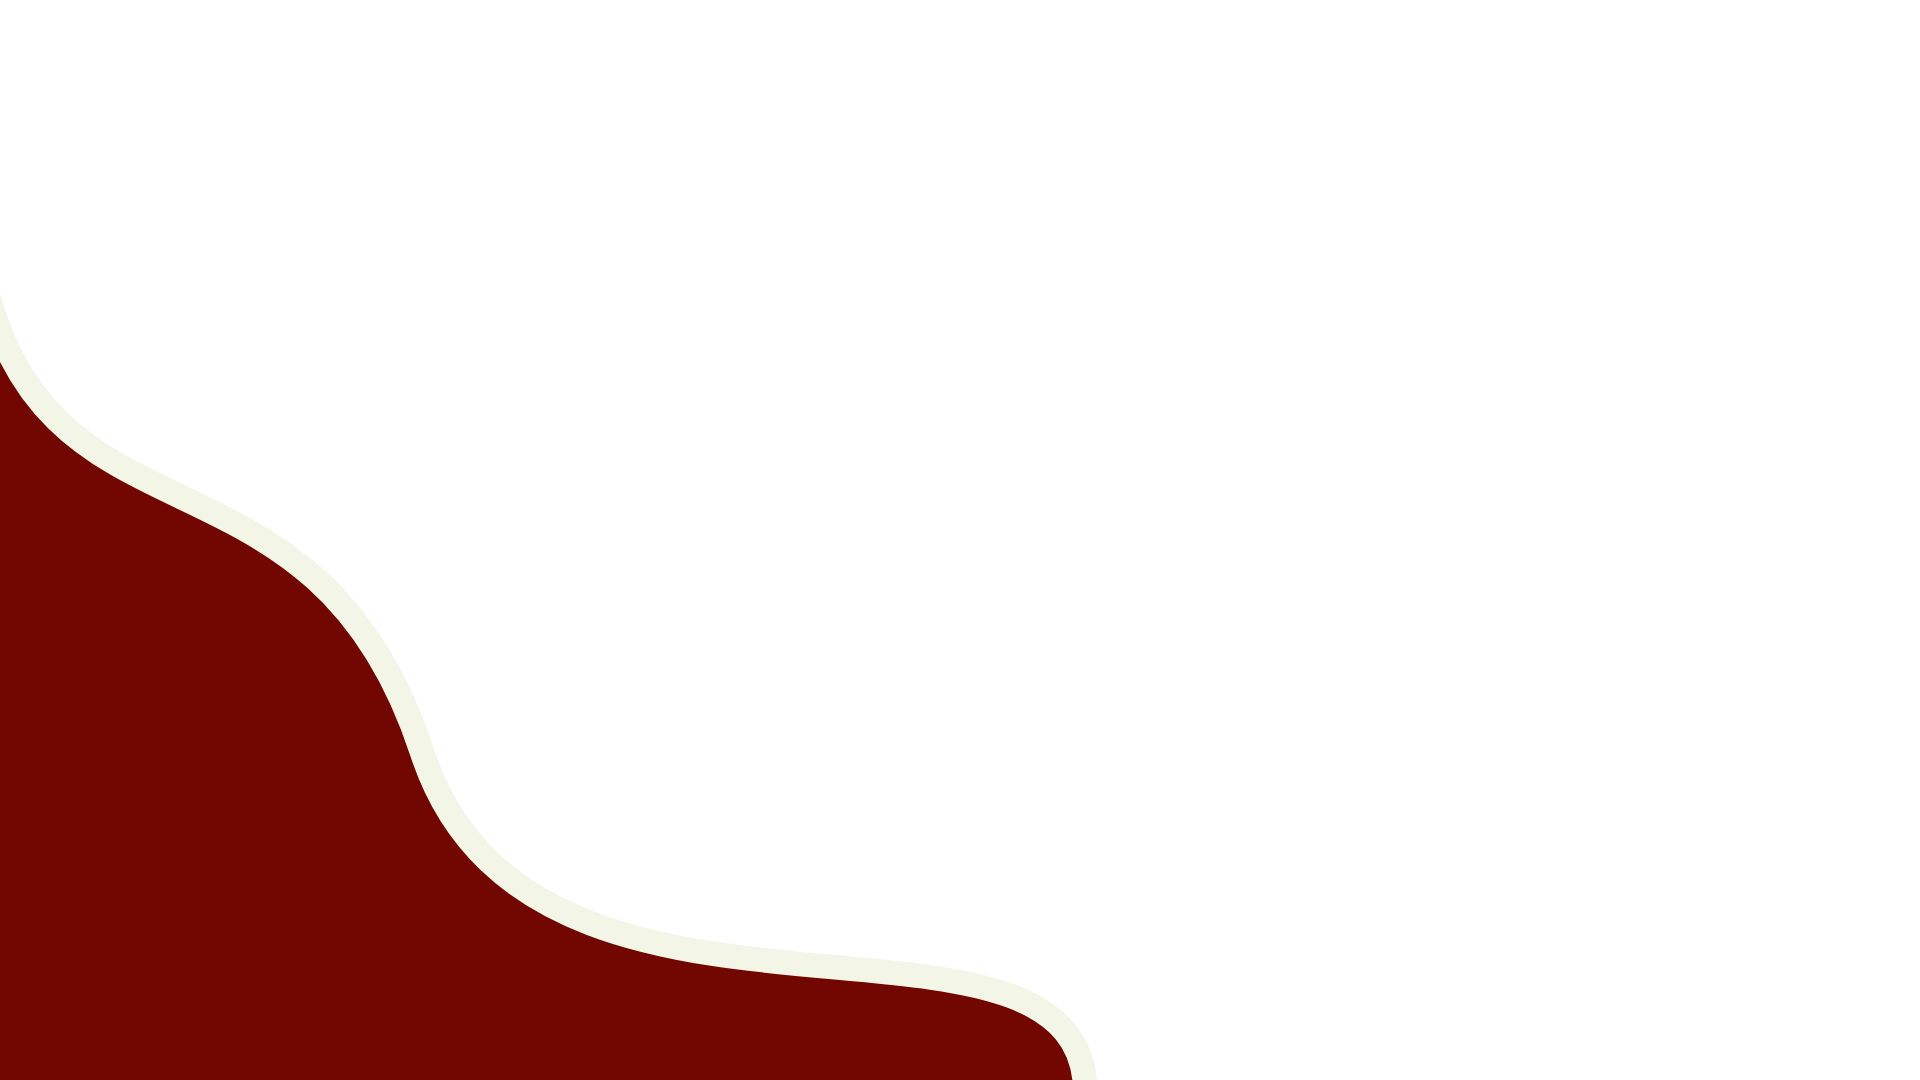
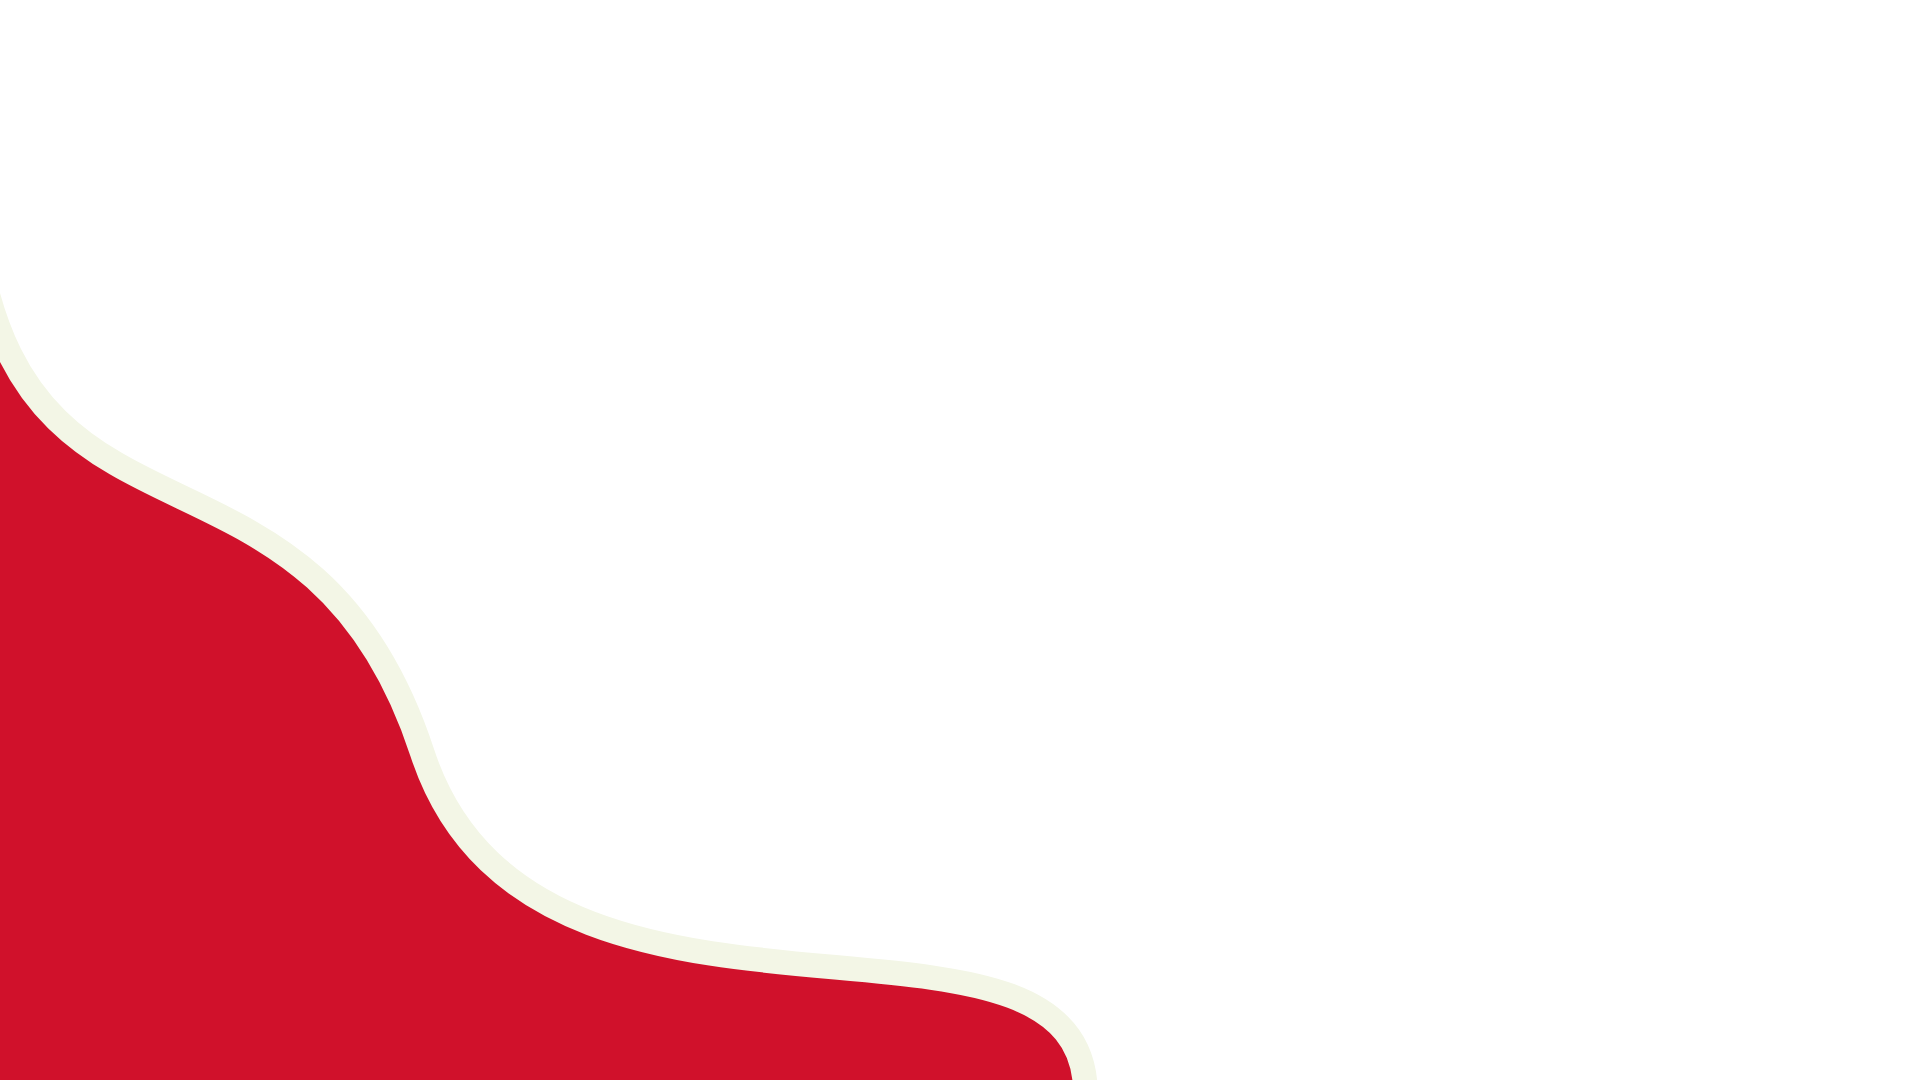
Corrigiendo color de login y home

Changed region(s): [[0.0, 0.3361, 0.5625, 1.0]]

diff --git a/resources/css/login.css b/resources/css/login.css
@@ -73,7 +73,7 @@ form h2 {
     bottom: -2px;
     width: 0;
     height: 2px;
-    background-color: #720600;
+    background-color: #D0112B;
     transition: .3s;
 }
 
@@ -140,7 +140,7 @@ form h2 {
     font-size: 1.2rem;
     outline: none;
     border: none;
-    background-image: linear-gradient(to right, #720600, #7a0600, #802924);
+    background-image: linear-gradient(to right, #D0112B, #a50800, #9b3631);
     cursor: pointer;
     color: #fff;
     text-transform: uppercase;

diff --git a/resources/css/public.css b/resources/css/public.css
@@ -97,7 +97,7 @@ main {
 
 /***********TITLE SECTION**********************************************************/
 .section--title__container {
-    background: #720600;
+    background: #D0112B;
     display: flex;
     justify-content: flex-start;
     align-items: center;

diff --git a/views/public/profile.php b/views/public/profile.php
@@ -68,21 +68,21 @@ Public_Page::headerTemplate('SigmaQ - Configuración personal');
                 <h3 class="centrar">Cambiar contraseña</h3> 
                 <form method="post" id="password-form" enctype="multipart/form-data">   
                     <div class="row espacex2">
-                        <div class="d-grid gap-2 col-4 mx-auto">
+                        <div class="d-grid gap-2 col-md-4 col-sm-12 mx-auto">
                             <label for="txtClaveActual" class="form-label">Clave actual</label>
                             <input type="password" id="txtClaveActual" name="txtClaveActual" class="form-control" aria-describedby="claveActual">
                             <div id="claveActual" class="form-text">
                             Tu contraseña debe tener una longitud mínima de 6 caracteres y un máximo de 30, puede contener letras numeros y espacios
                             </div>
                         </div>
-                        <div class="d-grid gap-2 col-4 mx-auto">
+                        <div class="d-grid gap-2 col-md-4 col-sm-12 mx-auto">
                             <label for="txtClaveNueva" class="form-label">Nueva clave</label>
                             <input type="password" id="txtClaveNueva" name="txtClaveNueva" class="form-control" aria-describedby="claveNueva">
                             <div id="claveNueva" class="form-text">
                             Tu contraseña debe tener una longitud mínima de 6 caracteres y un máximo de 30, puede contener letras numeros y espacios
                             </div>
                         </div>
-                        <div class="d-grid gap-2 col-4 mx-auto">
+                        <div class="d-grid gap-2 col-md-4 col-sm-12 mx-auto">
                             <label for="txtClaveConfirmar" class="form-label">Confirmar clave</label>
                             <input type="password" id="txtClaveConfirmar" name="txtClaveConfirmar" class="form-control" aria-describedby="claveConfirmar">
                             <div id="claveConfirmar" class="form-text">

diff --git a/views/public/indiceEntrega.php b/views/public/indiceEntrega.php
@@ -16,7 +16,7 @@ Public_Page::headerTemplate('SigmaQ - Índice de entrega');
 </div>
 
 <!-- Seccion de tabla de registros -->
-<div class="container-fluid espacioSuperior"> 
+<div class="container-fluid table-responsive espacioSuperior"> 
 	<table class="table borde">
 		<h4 id="warning-message" style="text-align:center"></h4>
 		<!-- Contenido de la tabla -->

diff --git a/views/public/statusPedidos.php b/views/public/statusPedidos.php
@@ -17,7 +17,7 @@ Public_Page::headerTemplate('SigmaQ - Status de pedidos');
 
 
 <!-- Seccion de tabla de registros -->
-<div class="container-fluid espacioSuperior"> 
+<div class="container-fluid table-responsive espacioSuperior"> 
 	<table class="table borde">
 		<h4 id="warning-message" style="text-align:center"></h4>
 		<!-- Contenido de la tabla -->

diff --git a/views/public/estadoCuenta.php b/views/public/estadoCuenta.php
@@ -16,7 +16,7 @@ Public_Page::headerTemplate('SigmaQ - Estado de cuenta');
 </div>
 <!-- Tabla -->
 	<!-- Seccion de tabla de registros -->
-	<div class="container-fluid espacioSuperior"> 
+	<div class="container-fluid table-responsive espacioSuperior"> 
 		<table class="table borde">
 			<!-- Cabecera de la tabla -->
 			<thead class="thead-dark">
